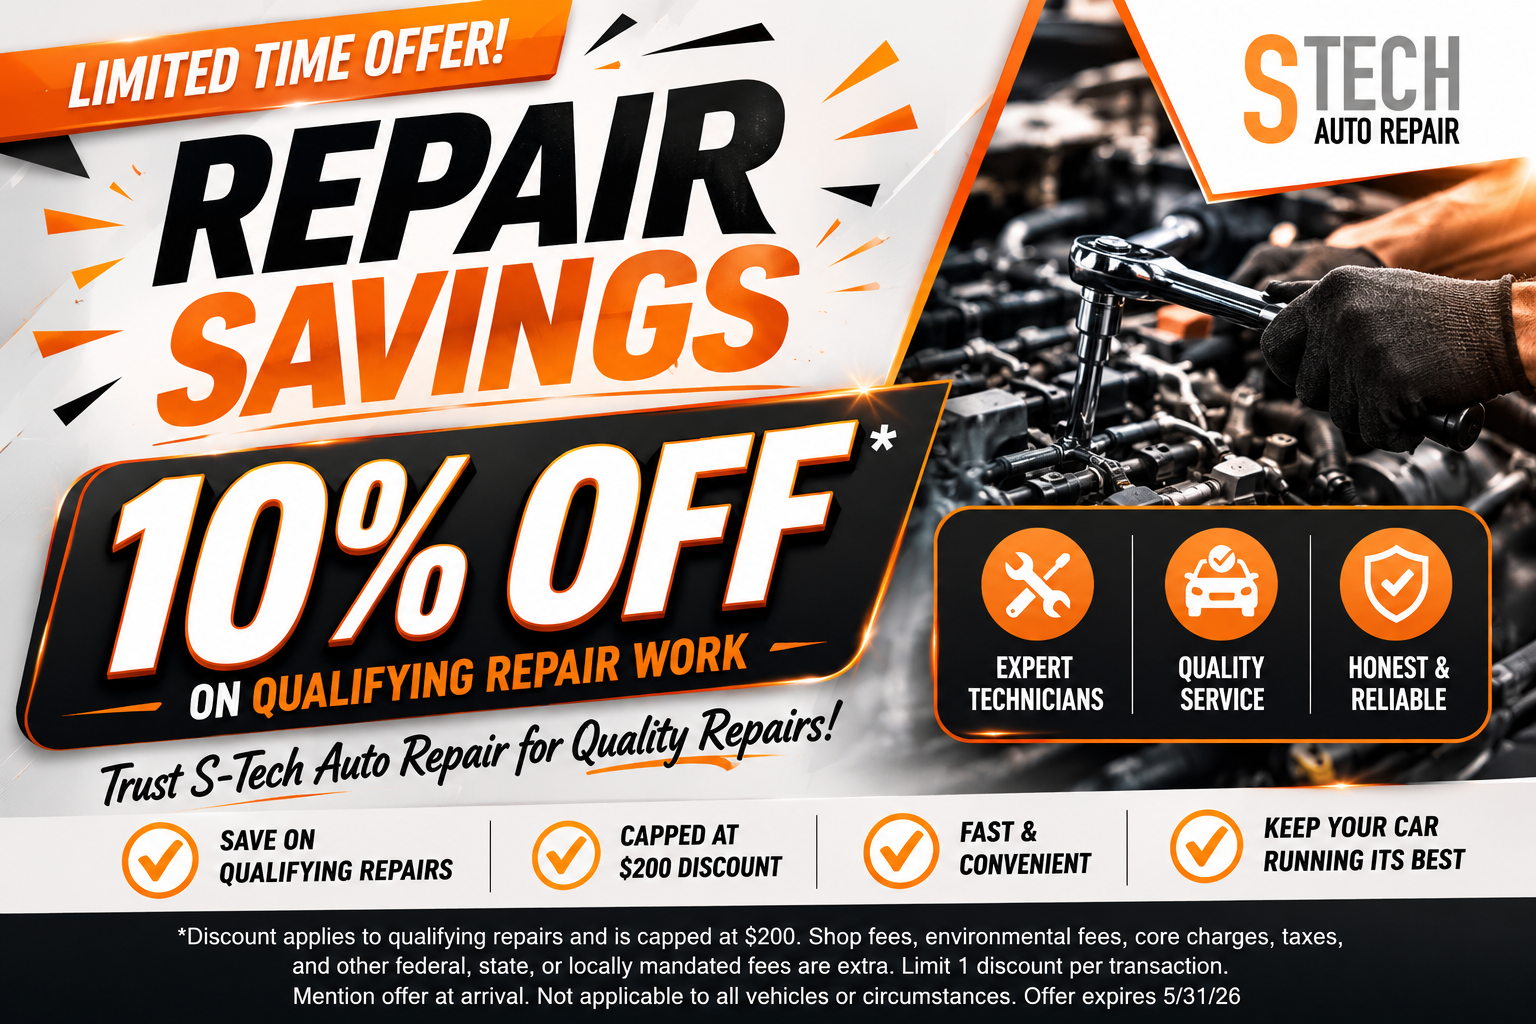
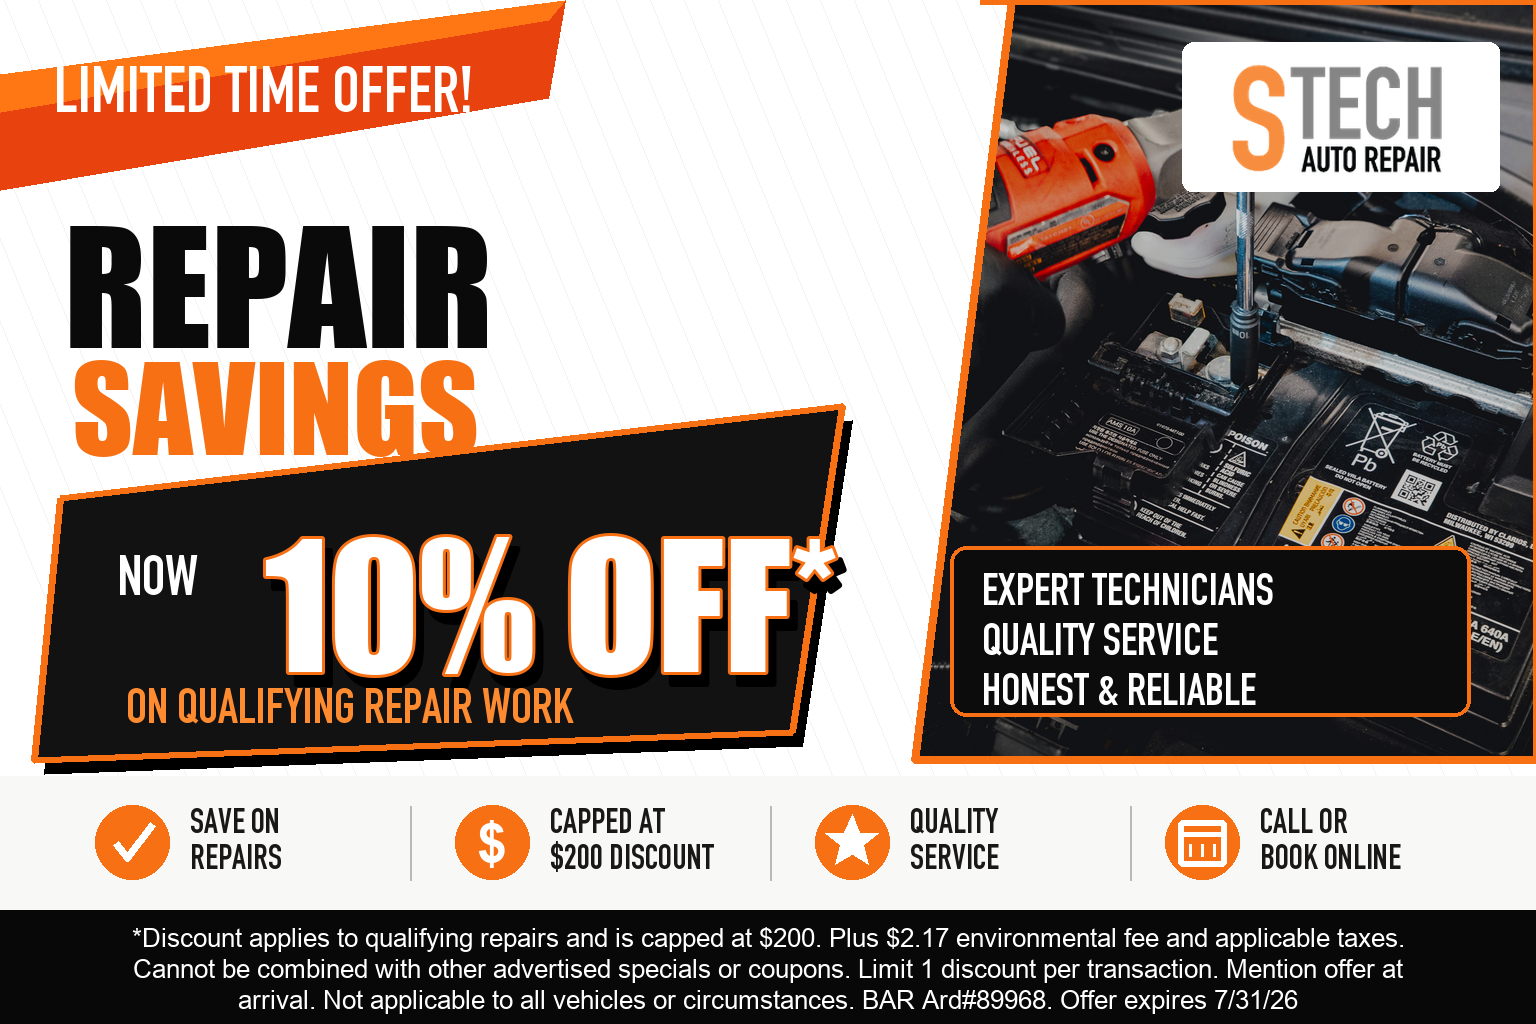
Rebuild homepage special coupon artwork

diff --git a/src/app/globals.css b/src/app/globals.css
@@ -1140,32 +1140,8 @@ span {
   height: auto;
 }
 
-.coupon-disclosure-overlay {
-  position: absolute;
-  left: 0;
-  right: 0;
-  bottom: 0;
-  z-index: 1;
-  min-height: 14%;
-  display: flex;
-  align-items: center;
-  justify-content: center;
-  padding: 0.5rem 0.9rem;
-  background: #080808;
-  color: #ffffff;
-  font-size: clamp(0.62rem, 0.82vw, 0.76rem);
-  line-height: 1.22;
-  text-align: center;
-}
-
 .top-offer-rotator-image {
   object-fit: contain;
-}
-
-.top-offer-rotator .coupon-disclosure-overlay {
-  min-height: 15%;
-  padding: 0.28rem 0.55rem;
-  font-size: clamp(0.45rem, 0.65vw, 0.58rem);
 }
 
 .offer-logo {
@@ -1901,18 +1877,6 @@ span {
     top: 0.5rem;
     padding: 0.42rem 0.55rem;
     font-size: 0.75rem;
-  }
-
-  .coupon-disclosure-overlay {
-    min-height: 16%;
-    padding: 0.4rem 0.5rem;
-    font-size: 0.54rem;
-  }
-
-  .top-offer-rotator .coupon-disclosure-overlay {
-    min-height: 18%;
-    padding: 0.22rem 0.35rem;
-    font-size: 0.34rem;
   }
 
   .offer-fallback-card {

diff --git a/src/app/page.tsx b/src/app/page.tsx
@@ -164,7 +164,6 @@ export default function HomePage() {
                   className="offer-visual-image"
                   sizes="(max-width: 640px) 100vw, 50vw"
                 />
-                <span className="coupon-disclosure-overlay">{offer.disclosure}</span>
               </Link>
             ))}
           </div>

diff --git a/src/components/specials-rotator.tsx b/src/components/specials-rotator.tsx
@@ -61,7 +61,6 @@ export function SpecialsRotator({ offers }: SpecialsRotatorProps) {
         className="top-offer-rotator-image"
         sizes="(max-width: 960px) 100vw, 33vw"
       />
-      <span className="coupon-disclosure-overlay">{activeOffer.disclosure}</span>
       <span className="top-offer-rotator-cta">View all specials</span>
       {offers.length > 1 ? (
         <span className="top-offer-rotator-dots" aria-hidden="true">